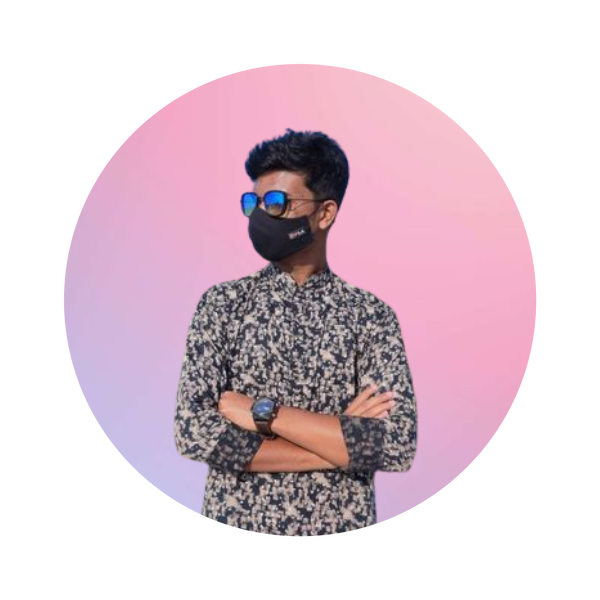
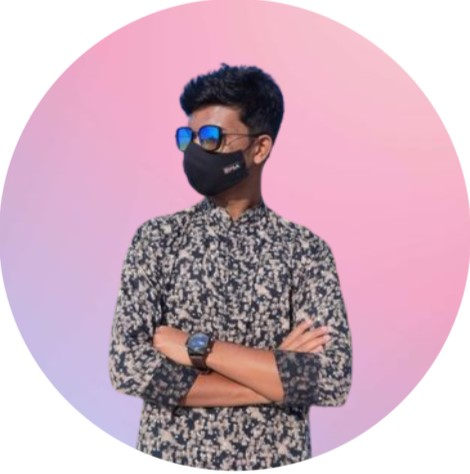
fourth push

diff --git a/index.html b/index.html
@@ -12,13 +12,13 @@
 </head>
 <body>
     <section>
-        <div>
+        <div class="half-width">
             <h1>Hi There!</h1>
-            <h1>Welcome to Rubayets Portfolio</h1>
+            <h1>Welcome to <span>Rubayet's Portfolio</span> </h1>
             <p>Lorem ipsum dolor sit amet consectetur adipisicing elit. Consequuntur soluta harum iure illo ullam? Incidunt atque autem quas! Vero enim aliquid nulla quae veritatis perferendis sed. Esse, consequatur? Cupiditate totam, facere voluptatibus expedita molestias natus nesciunt fuga inventore pariatur repellendus labore eveniet a, iure delectus ex, cum distinctio. Enim, quaerat.</p>
             <a href="#" target="_blank">Hire me</a>
         </div>
-        <div>
+        <div class="half-width">
           <img src="profile.jpg" alt="sauyo">
         </div>
     </section>

diff --git a/style.css b/style.css
@@ -2,4 +2,24 @@ body{
     font-family: 'Comfortaa', cursive;
 font-family: 'Montserrat', sans-serif;
 font-family: 'Open Sans', sans-serif;
+background-image: url("003-subtle-light-pattern-background-texture-vol5.jpg");
+}
+h1{
+    font-size: 50px;
+}
+span{
+    color: rgb(58, 117, 226);
+}
+section{
+    display: flex;
+    align-items: center;
+    padding-left: 5%;
+}
+.half-width{
+    width: 50%;
+}
+.half-width img{
+    width: 40%;
+    border-radius: 50%;
+    padding-left: 20px;
 }
